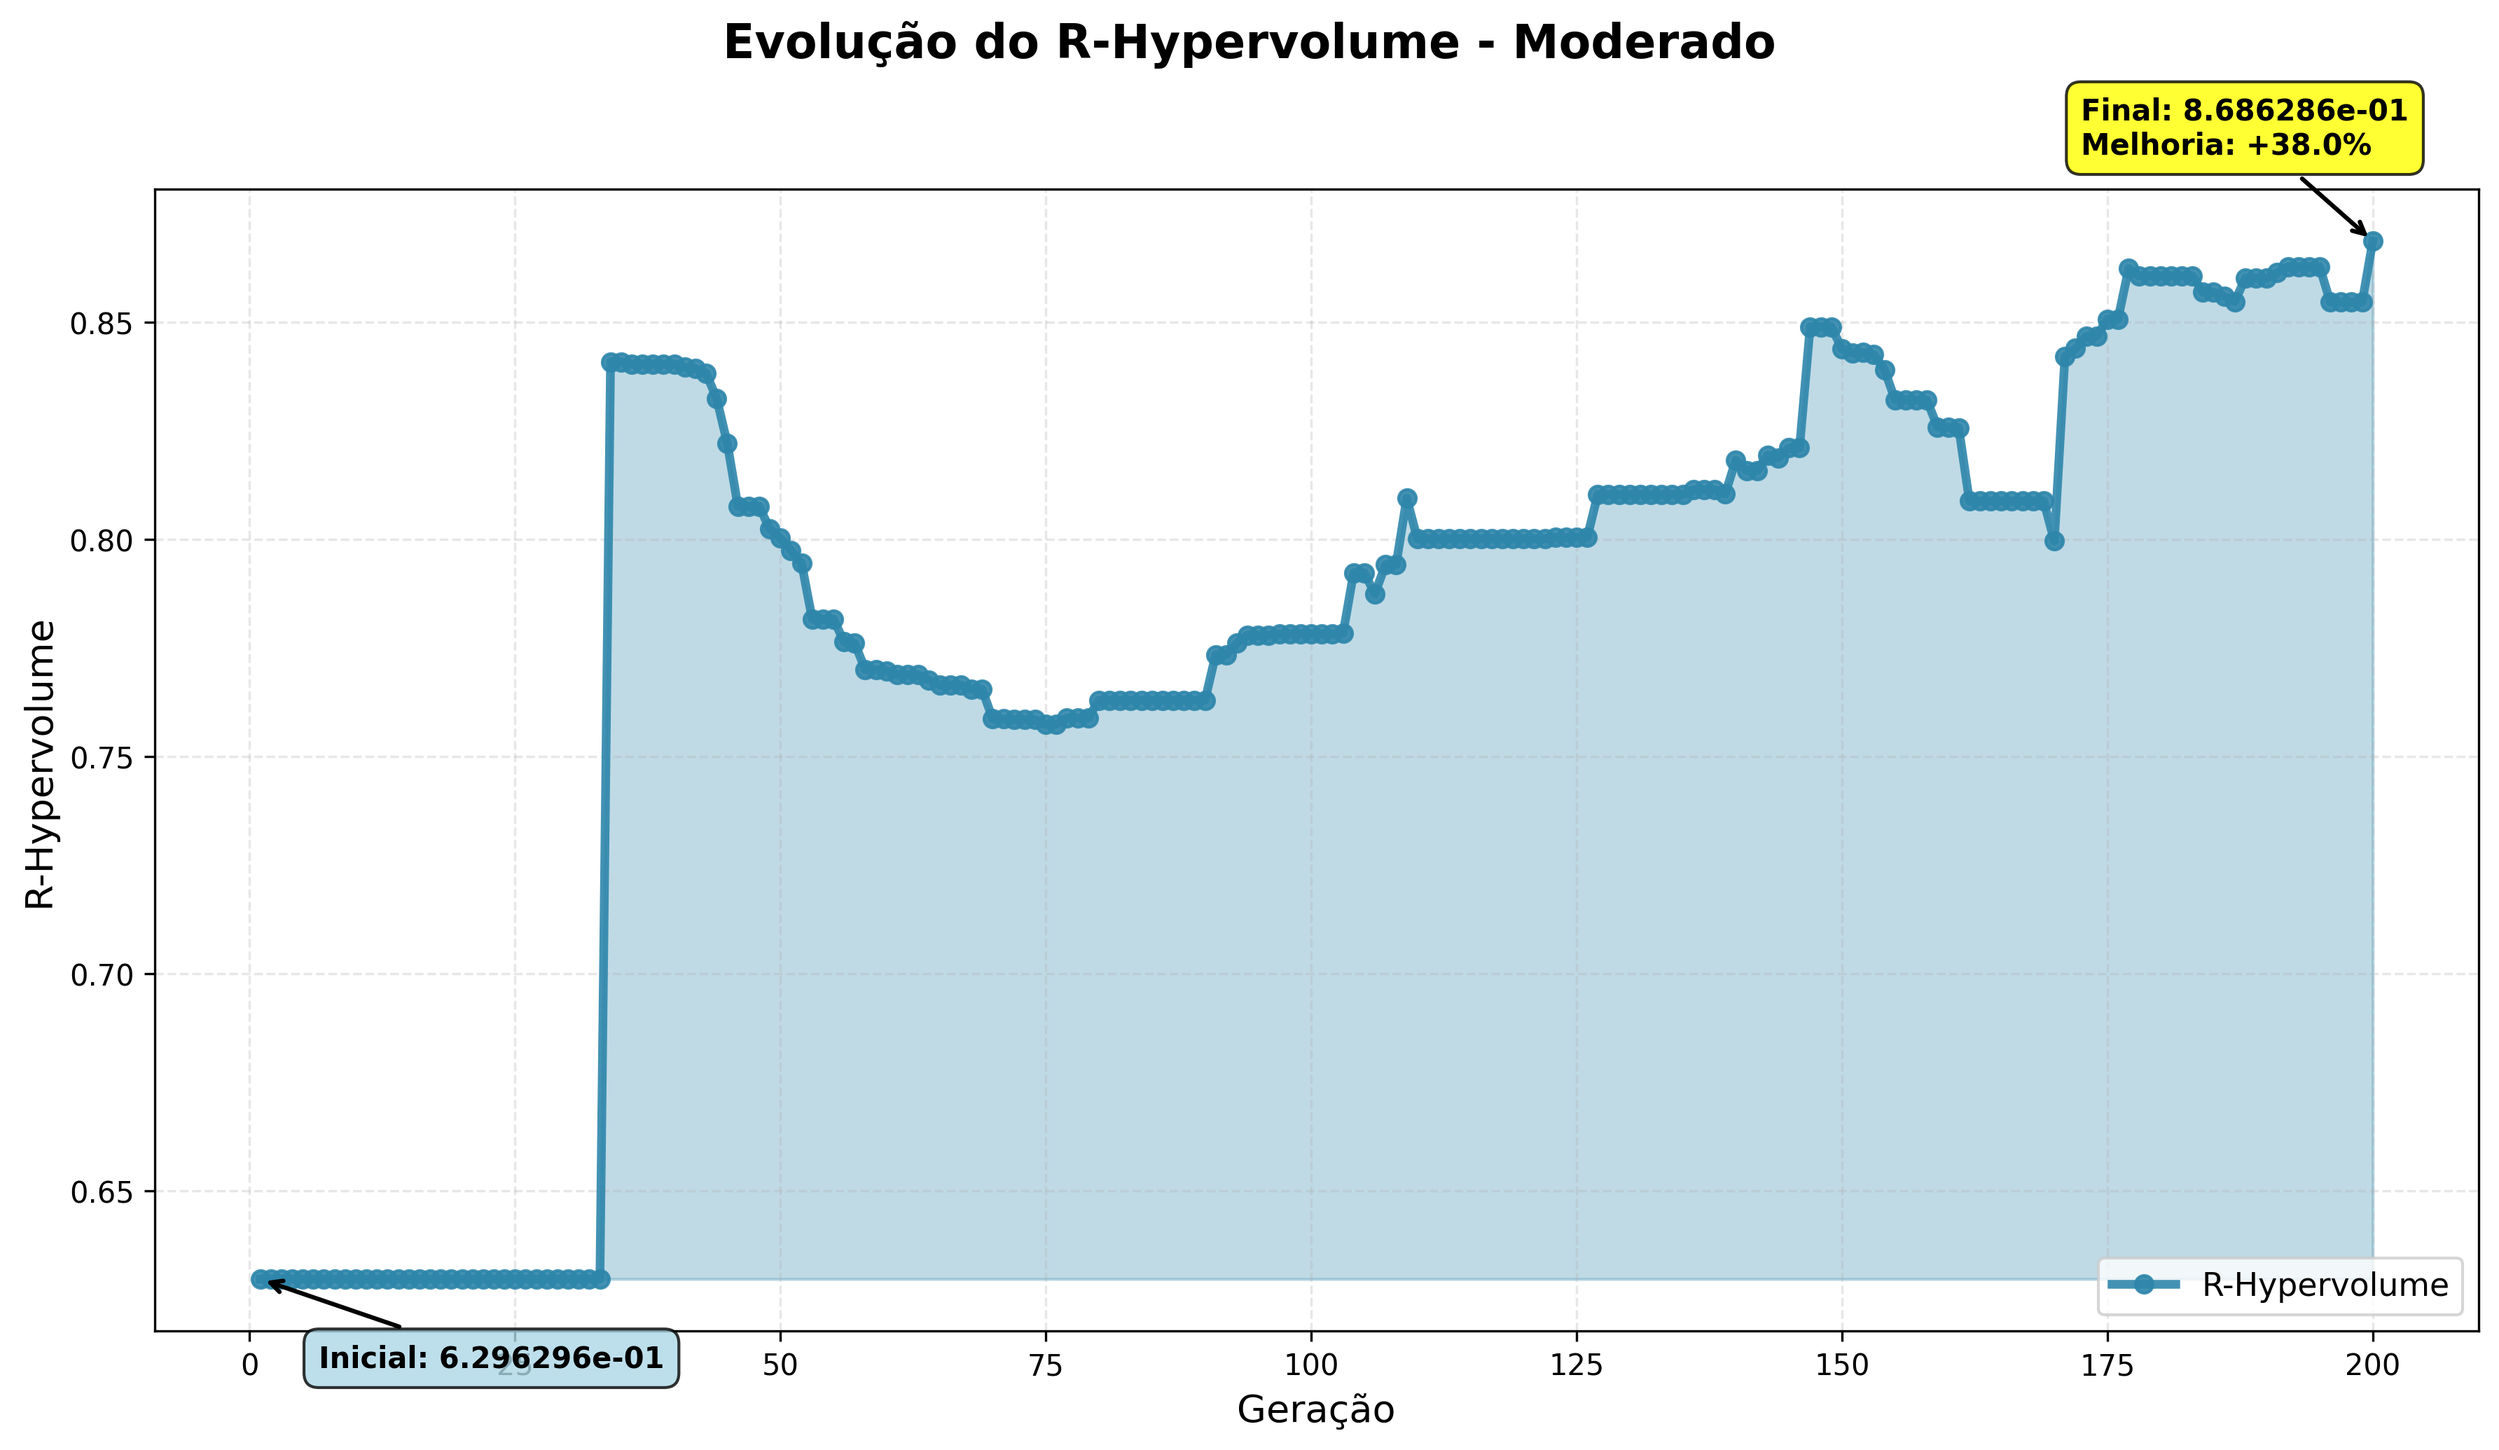
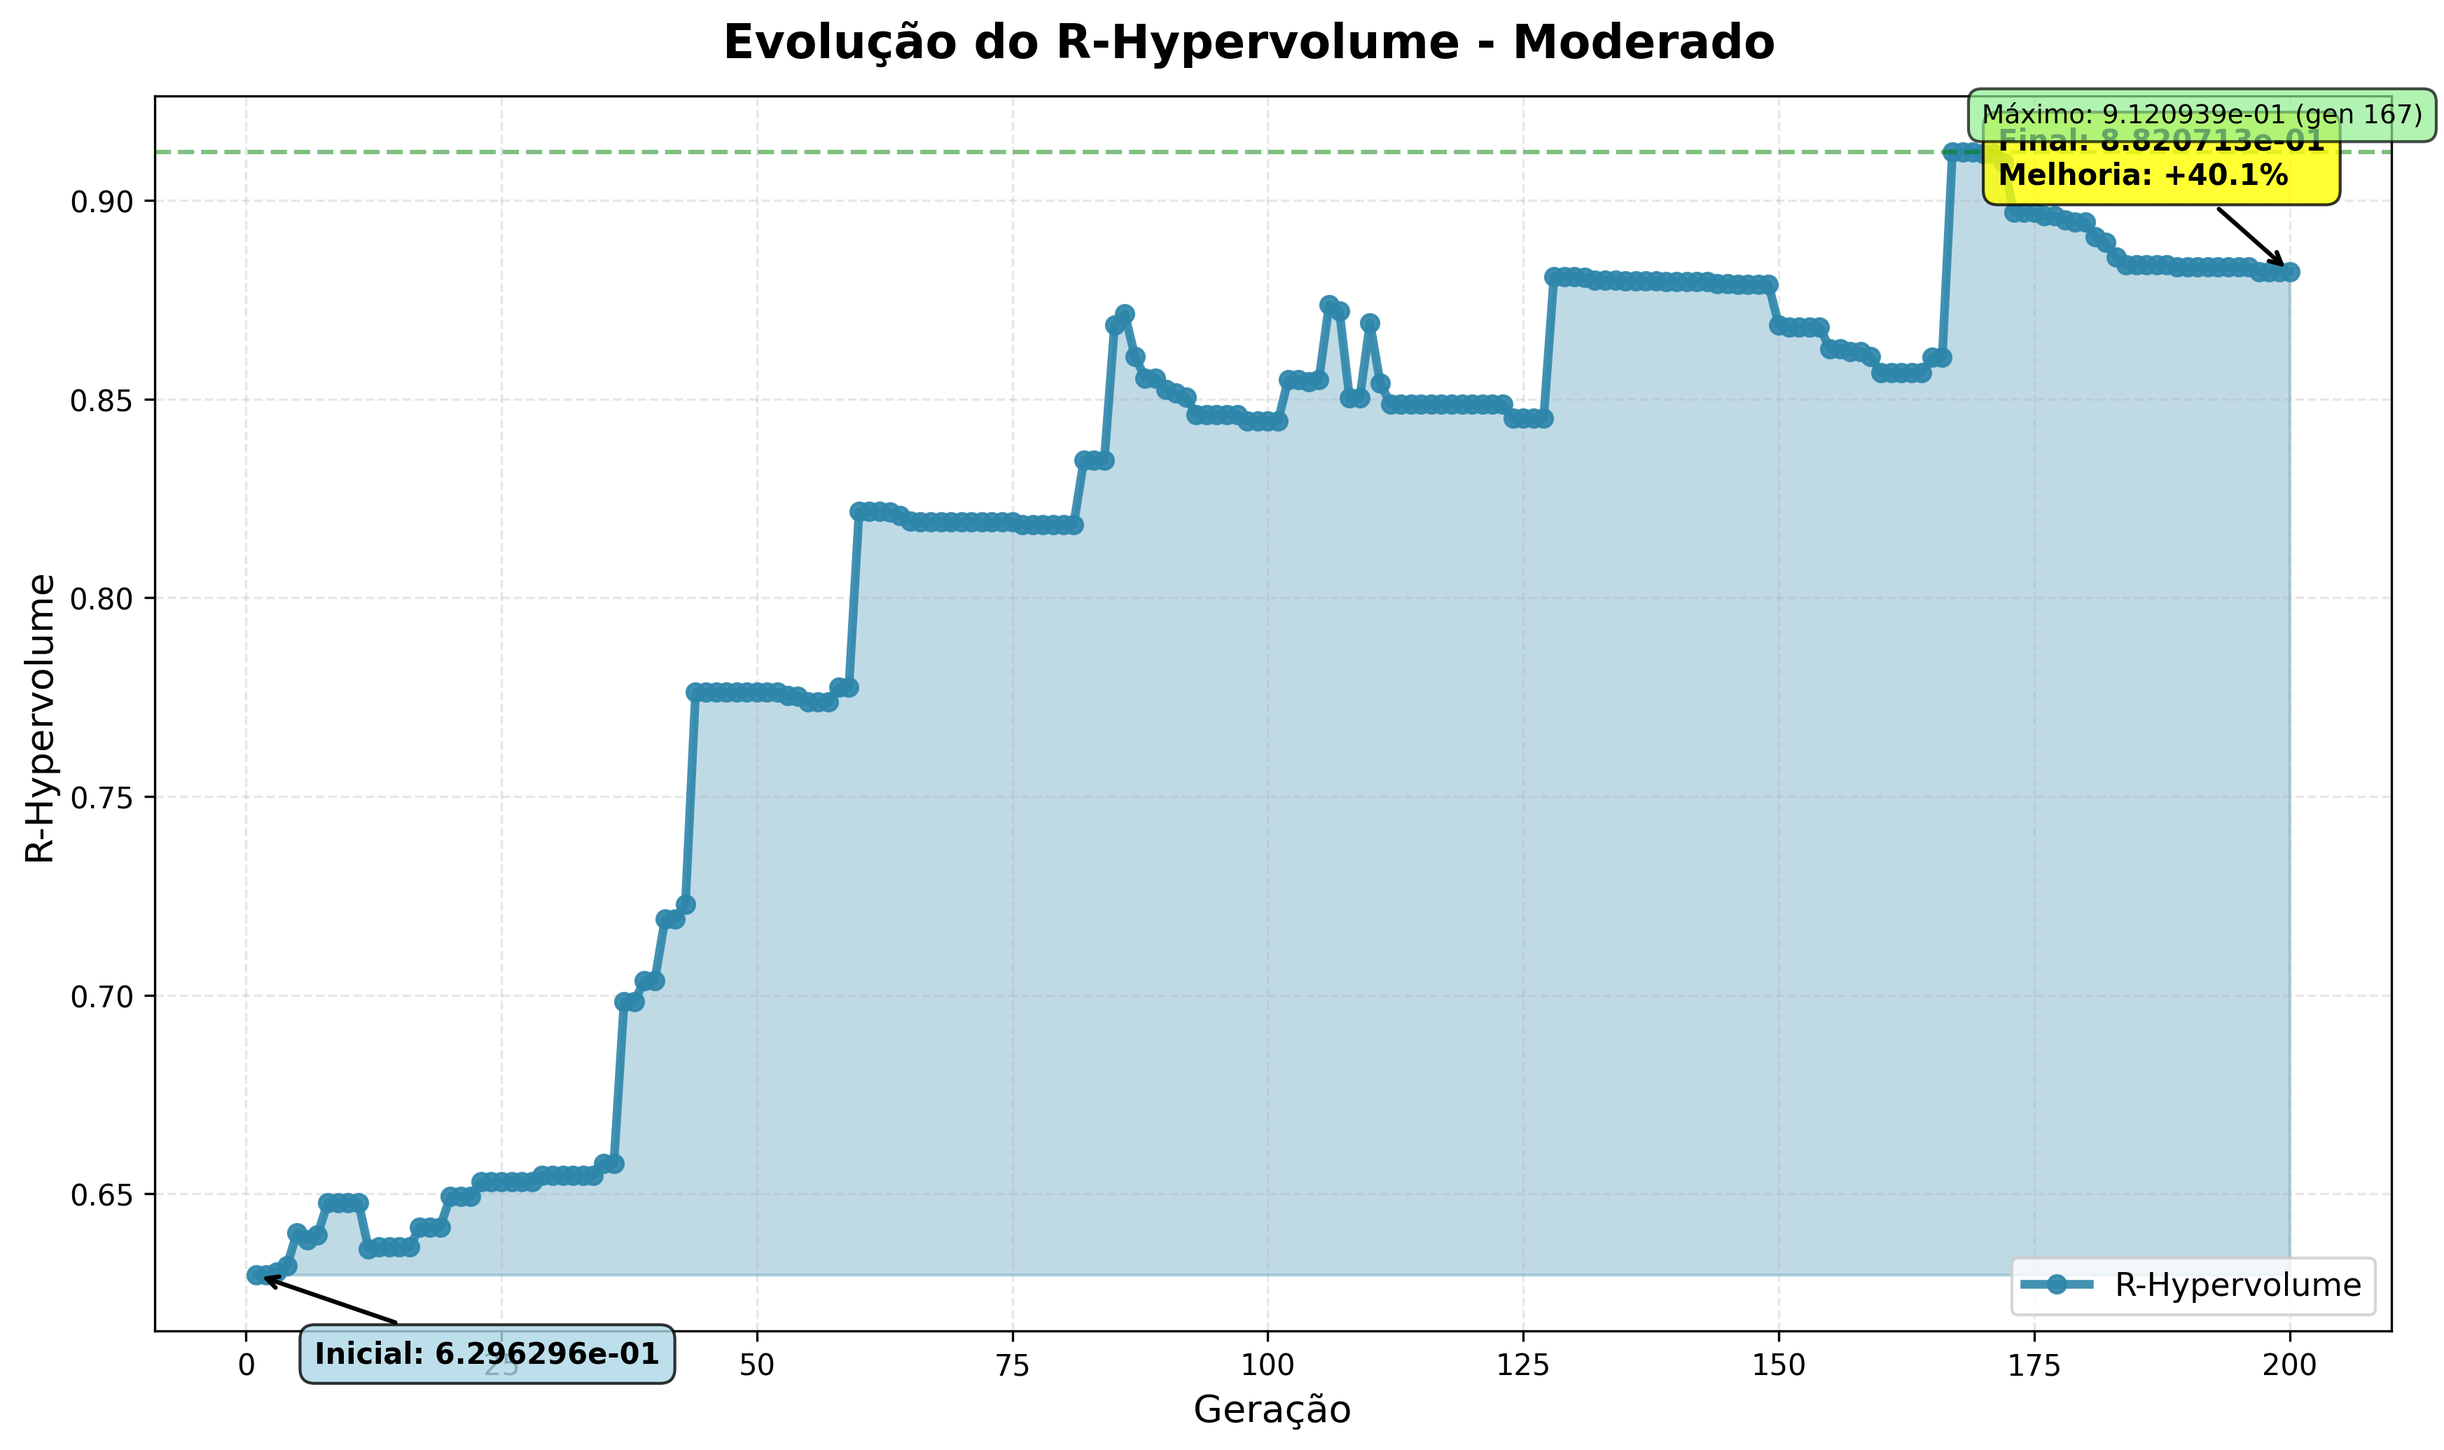
Ajustes

diff --git a/backend/services/agmo/tuning/quality_metrics.py b/backend/services/agmo/tuning/quality_metrics.py
@@ -453,7 +453,7 @@ class ConvergenceTracker:
                     logger.info(f"🎯 Ponto ideal ATUALIZADO: {self.ideal_point}")
                     logger.info(f"   Melhoria: {old_ideal - self.ideal_point}")
 
-            # Define ponto nadir DINÂMICO (PIOR CASO acumulado) - usado para R-HV
+            # Define o ponto nadir da gen 0 e não muda mais
             if not self.nadir_point_set:
                 # Primeira geração: inicializa nadir point com margem generosa
                 self.nadir_point = max_values * 2.0
@@ -461,17 +461,7 @@ class ConvergenceTracker:
                 if self.use_r_hv:
                     logger.info(f"📍 Ponto nadir INICIAL (pior caso gen 0 * 2.0): {self.nadir_point}")
                     logger.info(f"   Max da gen 0: {max_values}")
-                    logger.info(f"   ⚠  NADIR será ATUALIZADO dinamicamente para manter normalização correta")
-            else:
-                # Atualiza nadir point com os PIORES valores já vistos (max acumulativo)
-                # Adiciona margem de 10% para acomodar pequenas oscilações
-                old_nadir = self.nadir_point.copy()
-                new_nadir_candidate = max_values * 1.1
-                self.nadir_point = np.maximum(self.nadir_point, new_nadir_candidate)
 
-                if not np.array_equal(old_nadir, self.nadir_point):
-                    logger.info(f"📍 Ponto nadir ATUALIZADO: {self.nadir_point}")
-                    logger.info(f"   Expansão: {self.nadir_point - old_nadir}")
 
             logger.info(f"   ✅ R-HV: Usando {len(self.reference_points_rnsga2)} pontos de referência do R-NSGA2")
             logger.info(f"   ✅ R-HV (sigmoid) vai CRESCER conforme soluções melhoram em relação aos pontos de referência")

diff --git a/backend/services/agmo/agmo_service.py b/backend/services/agmo/agmo_service.py
@@ -562,20 +562,6 @@ class Nsga2OtimizacaoService:
                            callback=callback, verbose=True)
         print("🏁 Otimização R-NSGA2 concluída.")
 
-        # --- calcular e imprimir R-HV da última geração (diretamente aqui, sem QualityMetrics)
-        try:
-            rhv_value = self.compute_rhv_last_generation(
-                result=result,
-                weight_vectors=WEIGHTS_CONFIG[self.risk_level],          # usa WEIGHTS_CONFIG[self.risk_level] por padrão
-                reference_points=REFERENCE_POINTS_CONFIG[self.risk_level]         # usa REFERENCE_POINTS_CONFIG[self.risk_level] por padrão
-            )
-            print(f"\n🔹 R-Hypervolume (R-HV) da última geração: {rhv_value:.6f}")
-            # também adiciona no optimization_result para consumo programático
-
-        except Exception as e:
-            print(f"⚠ Erro ao calcular R-HV da última geração: {e}")
-
-
         if result.X is None:
             raise ValueError("O algoritmo não conseguiu encontrar nenhuma solução.")
 
